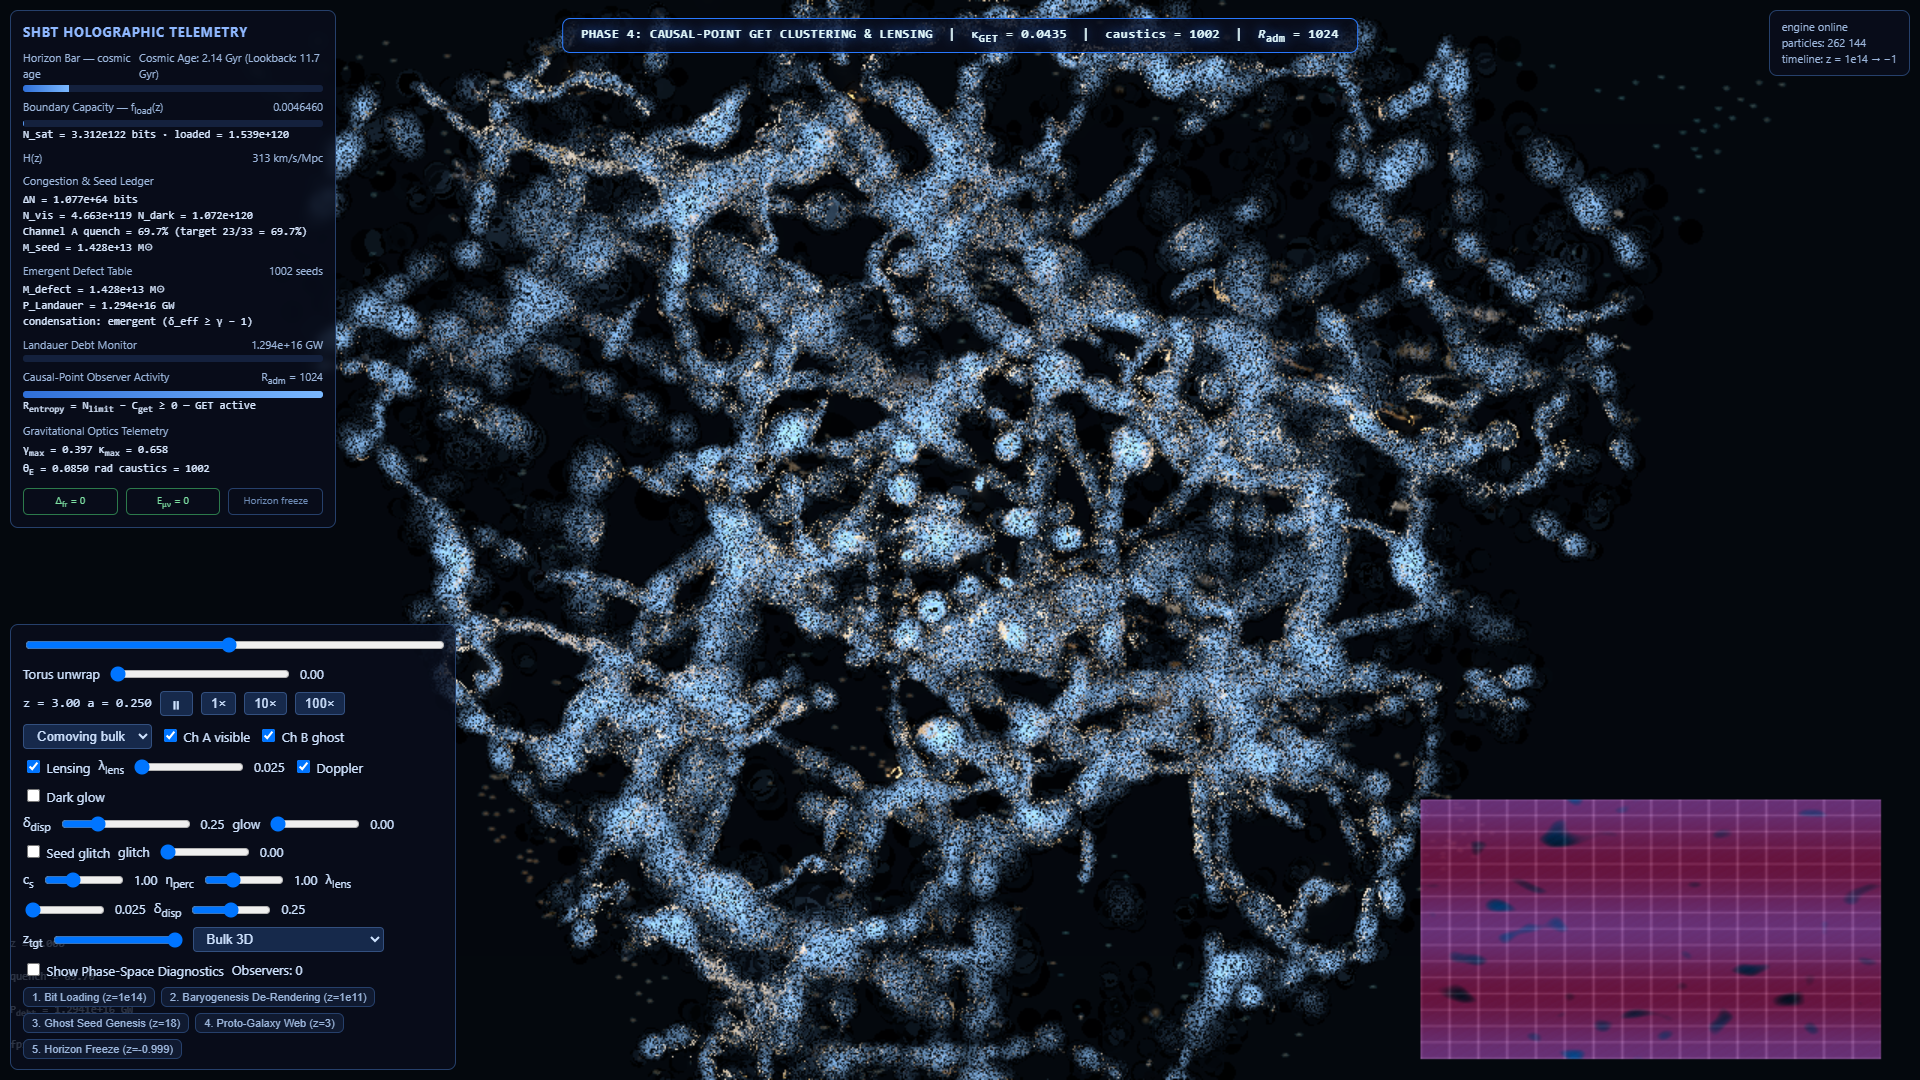
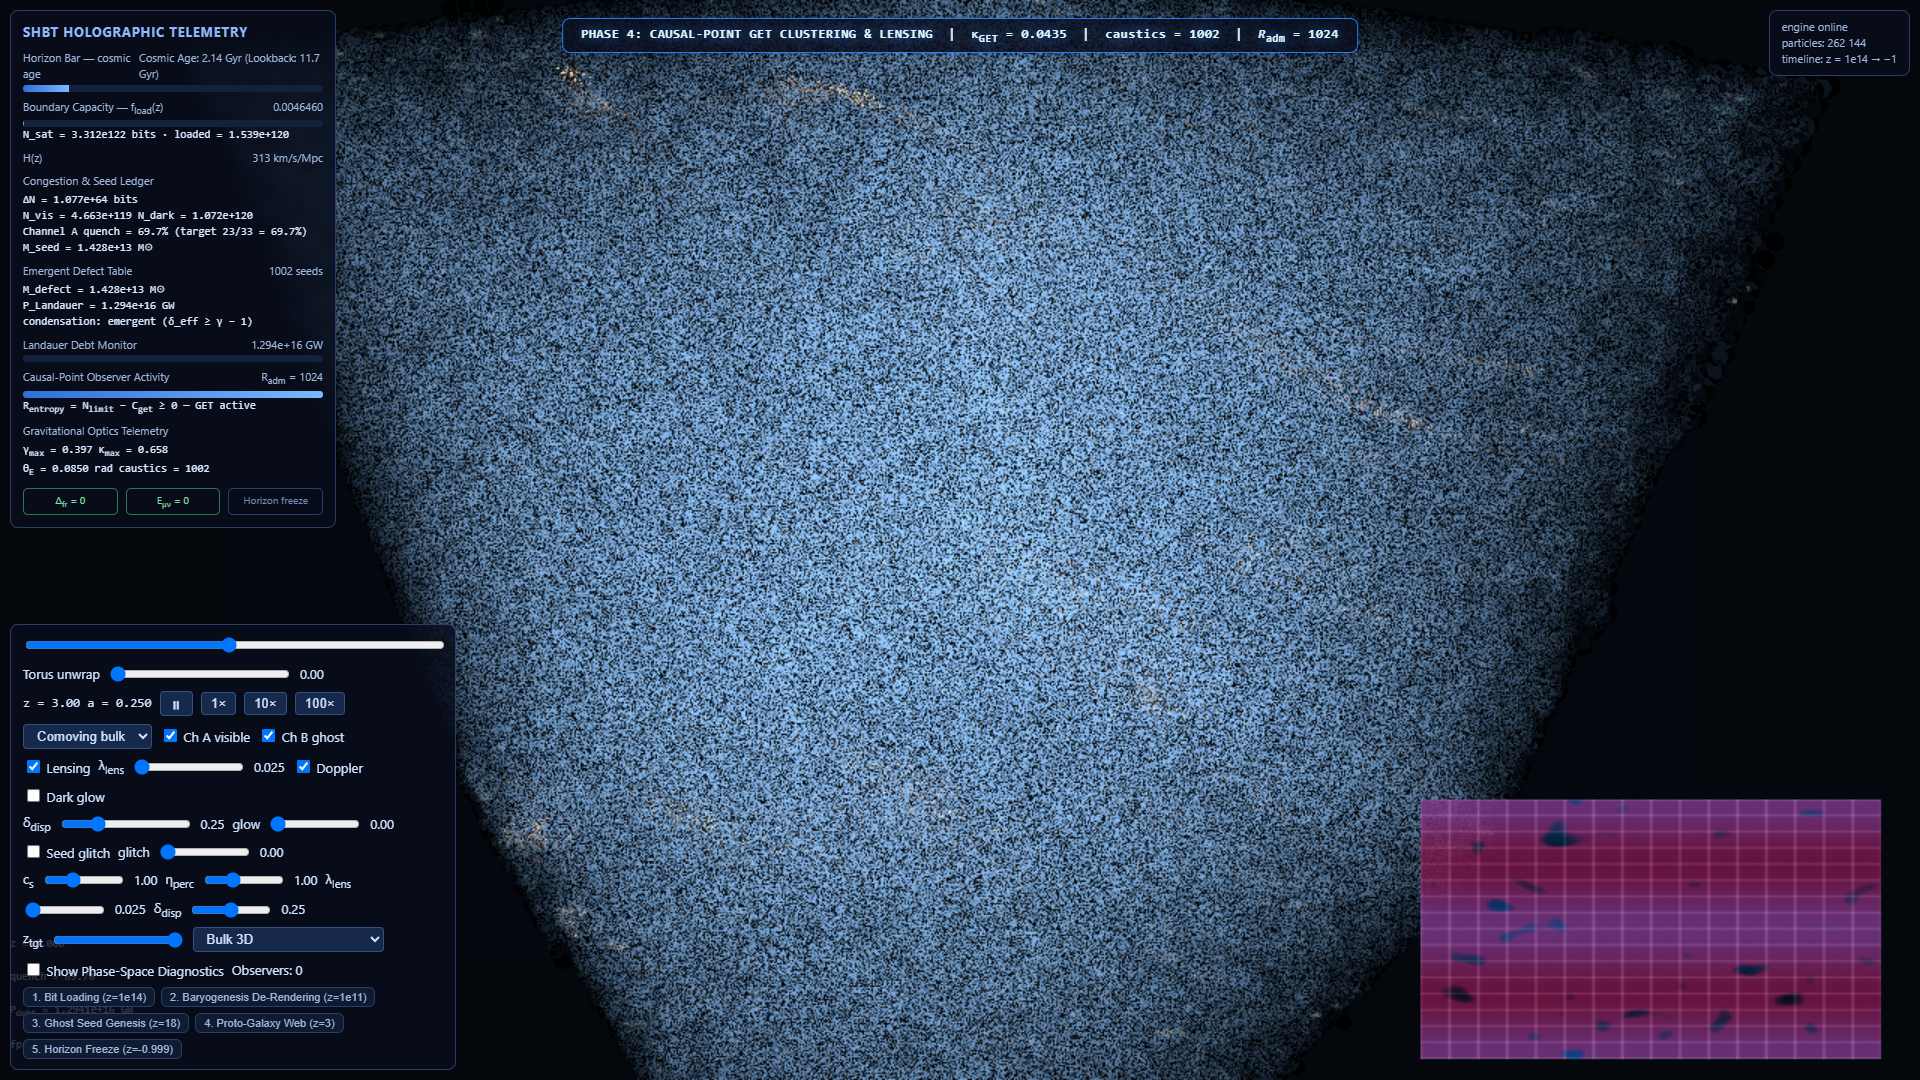
fix(recorder): deterministic re-record with clean primordial state, expose captureCtx globally, epoch gating

diff --git a/visualizer/index.js b/visualizer/index.js
@@ -237,6 +237,8 @@ async function boot() {
     // mutating call through a queue so event handlers cannot re-enter it.
     const mutating = new Set([
       "step_frame", "capture_frame_rgba", "update_frame_telemetry", "load_particles_binary",
+      "load_particle_data", "clear_simulation_textures", "reset_telemetry", "step_offline",
+      "render_frame", "step_deterministic",
       "set_redshift", "set_speed", "set_playing", "set_projection",
       "set_unwrap_transition", "set_channels", "set_lensing_enabled",
       "set_lensing_scale", "set_dispersion", "set_doppler_enabled",
@@ -267,11 +269,47 @@ async function boot() {
       "position:absolute;inset:0;width:100%;height:100%;z-index:0";
     src.parentElement.insertBefore(overlay, src.nextSibling);
     captureCtx = overlay.getContext("2d");
+    window.captureCtx = captureCtx;
   }
+
+  // Primordial reset hook: strictly strip 16-byte SHBT header and clear GPU state
+  window.reset_to_primordial = async function () {
+    let resp = await fetch("/visualizer/particles_init_z100.bin");
+    if (!resp.ok) resp = await fetch("/particles_init_z100.bin");
+    if (!resp.ok) resp = await fetch("particles_init_z100.bin");
+    if (!resp.ok) {
+      throw new Error(`CRITICAL: particles_init_z100.bin fetch failed: ${resp.status}`);
+    }
+    const rawBuffer = await resp.arrayBuffer();
+    if (rawBuffer.byteLength !== 8388624) {
+      throw new Error(`CRITICAL: Invalid binary size: ${rawBuffer.byteLength} (expected 8388624)`);
+    }
+
+    // Strictly strip 16-byte SHBT header: 8,388,624 - 16 = 8,388,608 bytes (262,144 particles * 32 bytes)
+    const particleData = new Float32Array(rawBuffer, 16, 262144 * 8);
+
+    // Upload clean primordial records to GPU storage buffer
+    await engine.load_particle_data(particleData);
+
+    // Clear density textures, potential grids, and seed defect buffers
+    await engine.clear_simulation_textures();
+    await engine.reset_telemetry(1e14); // Set z = 1e14, a = 1e-14
+
+    const dev = window.__gpuDevice || (engine ? engine.device : null);
+    if (dev && dev.queue && dev.queue.onSubmittedWorkDone) {
+      await dev.queue.onSubmittedWorkDone();
+    }
+    window.__particlesLoaded = true;
+    window.__PARTICLES_LOADED__ = true;
+    window.__ENGINE_INITIALIZED__ = true;
+    console.log("[SHBT] Successfully reset engine to pristine primordial state (z = 1e14)");
+  };
+
   // Test hook (Phase 3 invariant gates): deterministic redshift scrub +
   // emergent-seed telemetry readout. Works in both interactive and
   // ?capture=1 (queued) modes.
   window.__SHBT_ENGINE__ = {
+    reset_to_primordial: () => window.reset_to_primordial(),
     setRedshift: (z) => engine.set_redshift(z),
     // In ?capture=1 mode hud_json can race capture_frame_rgba's &mut
     // borrow of the engine; fall back to the last metrics pushed into the
@@ -313,15 +351,16 @@ async function boot() {
     // Deterministic offline fixed-timestep stepping hook for recording / CI
     stepOffline: async (dt, z, pos, look) => {
       if (z !== undefined && pos !== undefined && look !== undefined) {
-        engine.update_cosmic_state(z, pos[0], pos[1], pos[2], look[0], look[1], look[2]);
+        await engine.update_cosmic_state(z, pos[0], pos[1], pos[2], look[0], look[1], look[2]);
       } else if (z !== undefined) {
-        engine.set_redshift(z);
+        await engine.set_redshift(z);
       }
       const stepDt = (dt !== undefined && dt > 0) ? dt : (1.0 / 60.0);
       if (captureCtx) {
         const px = await engine.capture_frame_rgba(stepDt);
-        if (window.__gpuDevice) {
-          await window.__gpuDevice.queue.onSubmittedWorkDone();
+        const dev = window.__gpuDevice || (engine ? engine.device : null);
+        if (dev && dev.queue && dev.queue.onSubmittedWorkDone) {
+          await dev.queue.onSubmittedWorkDone();
         }
         const c = captureCtx.canvas;
         captureCtx.putImageData(
@@ -329,9 +368,10 @@ async function boot() {
           0, 0
         );
       } else {
-        engine.step_frame(stepDt);
-        if (window.__gpuDevice) {
-          await window.__gpuDevice.queue.onSubmittedWorkDone();
+        await engine.step_frame(stepDt);
+        const dev = window.__gpuDevice || (engine ? engine.device : null);
+        if (dev && dev.queue && dev.queue.onSubmittedWorkDone) {
+          await dev.queue.onSubmittedWorkDone();
         }
       }
       const m = JSON.parse(engine.hud_json());
@@ -349,33 +389,84 @@ async function boot() {
     get_current_redshift: () => engine.get_current_redshift(),
     get_current_scale_factor: () => engine.get_current_scale_factor(),
     get_current_f_load: () => engine.get_current_f_load(),
+    get_kappa_max: () => engine.get_kappa_max(),
+    get_gamma_max: () => engine.get_gamma_max(),
     reset_deterministic: () => engine.reset_deterministic(),
   };
 
-  // Spec Step 1.2: Expose explicit deterministic synchronous frame advance on window
+  // Spec Step 1.3: Deterministic synchronous frame advance on window
   window.advanceSimulationFrame = async function (arg1, arg2, arg3, arg4, arg5) {
+    // If called with (pos, look, z) or (frameIndex, totalFrames, pos, look, z)
     let pos = null;
     let look = null;
     let z = undefined;
     let frameIndex = 0;
+    let totalFrames = 5400;
+
     if (Array.isArray(arg1) && Array.isArray(arg2)) {
       pos = arg1;
       look = arg2;
       z = arg3;
     } else if (typeof arg1 === "number") {
       frameIndex = arg1;
+      if (typeof arg2 === "number") {
+        totalFrames = arg2;
+      }
       if (Array.isArray(arg3) && Array.isArray(arg4)) {
         pos = arg3;
         look = arg4;
         z = arg5;
       }
     }
-    await window.__SHBT_ENGINE__.stepOffline(1.0 / 60.0, z, pos, look);
+
+    if (pos !== null && look !== null && z !== undefined) {
+      await window.__SHBT_ENGINE__.stepOffline(1.0 / 60.0, z, pos, look);
+    } else {
+      const a_start = 1e-14;
+      const a_end = 2.0;
+      const delta_a = (a_end - a_start) / totalFrames;
+
+             // Epoch gating: skip gravity integration for early epochs (a < 0.0099, i.e., z > 100)
+       const curA = engine.get_current_scale_factor();
+       if (curA < 0.0099) {
+         const newA = curA + delta_a;
+         const newZ = 1 / newA - 1;
+         await engine.set_redshift(newZ);
+       } else {
+         await engine.step_offline(delta_a);
+       }
+      if (captureCtx) {
+        const px = await engine.capture_frame_rgba(1.0 / 60.0);
+        const c = captureCtx.canvas;
+        captureCtx.putImageData(
+          new ImageData(new Uint8ClampedArray(px), c.width, c.height),
+          0, 0
+        );
+      } else {
+        await engine.render_frame();
+      }
+      const dev = window.__gpuDevice || (engine ? engine.device : null);
+      if (dev && dev.queue && dev.queue.onSubmittedWorkDone) {
+        await dev.queue.onSubmittedWorkDone();
+      }
+    }
+
+    const currentZ = engine.get_current_redshift();
+    const currentA = engine.get_current_scale_factor();
+    const currentKappa = engine.get_kappa_max();
+    const currentGamma = engine.get_gamma_max();
+    const currentFLoad = engine.get_current_f_load();
+
+    const m = JSON.parse(engine.hud_json());
+    refreshHud(m);
+
     return {
       frame: frameIndex,
-      z: engine.get_current_redshift(),
-      a: engine.get_current_scale_factor(),
-      f_load: engine.get_current_f_load(),
+      z: currentZ,
+      a: currentA,
+      kappa_max: currentKappa,
+      gamma_max: currentGamma,
+      f_load: currentFLoad,
     };
   };
   window.__SHBT_ENGINE__.advanceSimulationFrame = window.advanceSimulationFrame;
